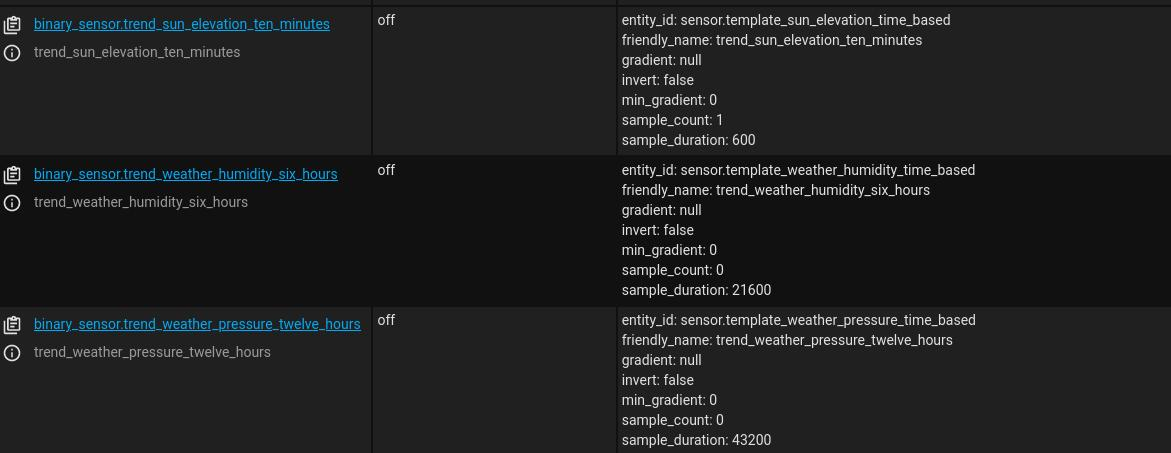
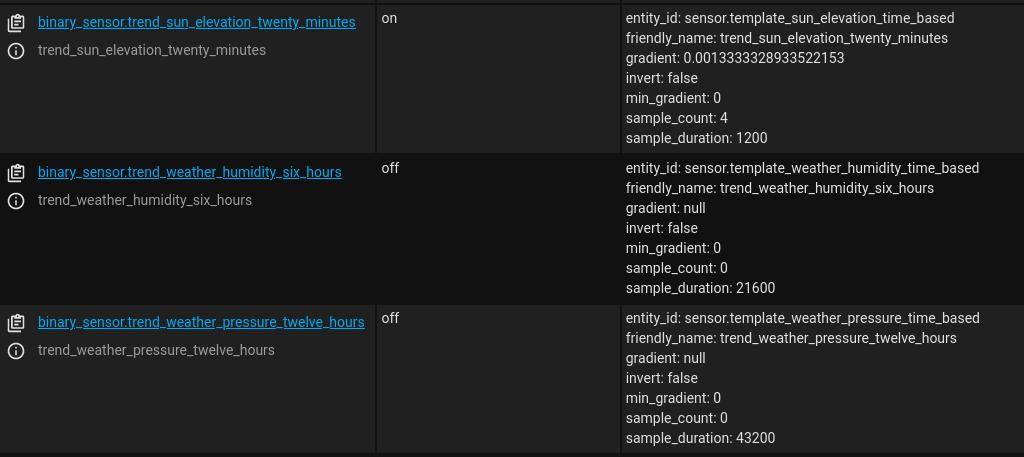
finished Trend section; moving onto the simplification of the article (moving stat inference to development)

diff --git a/_site/blog/smarter-hass/index.html b/_site/blog/smarter-hass/index.html
@@ -1036,7 +1036,7 @@
   <li><code class="language-plaintext highlighter-rouge">trend weather temperature six hours</code>: Gradient of the <code class="language-plaintext highlighter-rouge">sensor.template_weather_temperature_time_based</code> template sensor over the <em>last six hours</em>;</li>
   <li><code class="language-plaintext highlighter-rouge">trend weather humidity six hours</code>: Gradient of the <code class="language-plaintext highlighter-rouge">sensor.template_weather_humidity_time_based</code> template sensor over the <em>last six hours</em>;</li>
   <li><code class="language-plaintext highlighter-rouge">trend weather pressure twelve hours</code>: Gradient of the <code class="language-plaintext highlighter-rouge">sensor.template_weather_pressure_time_based</code> template sensor over the <em>last twelve hours</em>;</li>
-  <li><code class="language-plaintext highlighter-rouge">trend sun elevation ten minutes</code>: Gradient of the <code class="language-plaintext highlighter-rouge">sensor.template_sun_elevation_time_based</code> template sensor over the <em>last ten minutes</em>;</li>
+  <li><code class="language-plaintext highlighter-rouge">trend sun elevation twenty minutes</code>: Gradient of the <code class="language-plaintext highlighter-rouge">sensor.template_sun_elevation_time_based</code> template sensor over the <em>last twenty minutes</em>;</li>
 </ol>
 
 <p>To create those <code class="language-plaintext highlighter-rouge">trend</code> entities, append the following to the <code class="language-plaintext highlighter-rouge">binary_sensors.yaml</code> file:</p>
@@ -1062,31 +1062,33 @@
       <span class="na">max_samples</span><span class="pi">:</span> <span class="m">12</span>
       <span class="c1"># 12 hours in seconds</span>
       <span class="na">sample_duration</span><span class="pi">:</span> <span class="m">43200</span>
-    <span class="na">trend_sun_elevation_ten_minutes</span><span class="pi">:</span>
+    <span class="na">trend_sun_elevation_twenty_minutes</span><span class="pi">:</span>
       <span class="na">entity_id</span><span class="pi">:</span> <span class="s">sensor.template_sun_elevation_time_based</span>
       <span class="c1"># resolution is 1 every 5 minutes</span>
-      <span class="na">max_samples</span><span class="pi">:</span> <span class="m">2</span>
-      <span class="c1"># 10 minutes in seconds</span>
-      <span class="na">sample_duration</span><span class="pi">:</span> <span class="m">600</span>
+      <span class="na">max_samples</span><span class="pi">:</span> <span class="m">4</span>
+      <span class="c1"># 20 minutes in seconds</span>
+      <span class="na">sample_duration</span><span class="pi">:</span> <span class="m">1200</span>
 </code></pre></div></div>
 
 <p><strong>Check your configuration file</strong> and if everything looks good, <strong>restart HASS</strong>. Afterwards, check your log file for related errors and if it all looks good, then head to <strong>Developer Tools</strong> &gt; States and you should now see the new trend entities we just created:</p>
 
 <p><a href="/assets/posts/2021-06-04-smarter-hass/hass-utility-trend-01.jpg"><img src="/assets/posts/2021-06-04-smarter-hass/hass-utility-trend-01.jpg" alt="HASS utility trend 01" class="PostImage PostImage--large" /></a></p>
 
-<p>Two noteworthy observations need to be made at this point.  First, notice that this integration does not analyze the data from previously stored entity data but actually stores its own data.  Therefore, it’s necessary to keep it running to collect data from all monitored entities before drawing anything meaningful conclusions from it.  Second, the slope of the linear function that was fit over the data points (<code class="language-plaintext highlighter-rouge">gradient</code>) is reported as an <strong>attribute</strong> and because it uses <em>seconds</em> as time unit, the coefficient refers to the ratio of change over <em>per second</em>.  To make it easier working with <code class="language-plaintext highlighter-rouge">gradient</code>, I usually create a slave entity to output the gradient as its state instead. This is accomplished with <strong>template sensors</strong>.  More specifically, let’s append the following <em>Trend helper entities</em> under our default <strong>Sensor Templates</strong> in the <code class="language-plaintext highlighter-rouge">templates.yaml</code> file:</p>
+<p><a href="/assets/posts/2021-06-04-smarter-hass/hass-utility-trend-02.jpg"><img src="/assets/posts/2021-06-04-smarter-hass/hass-utility-trend-02.jpg" alt="HASS utility trend 02" class="PostImage" /></a></p>
+
+<p>Two noteworthy observations need to be made at this point.  First, notice that this integration does not analyze the data from previously stored entity data but actually stores its own data.  Therefore, it’s necessary to keep it running to collect data from all monitored entities before drawing any meaningful conclusions from it.  Second, the slope of the linear function that was fit over the data points (<code class="language-plaintext highlighter-rouge">gradient</code>) is reported as an <strong>attribute</strong> and because it uses <em>seconds</em> as time unit, the coefficient refers to the ratio of change <em>per second</em>.  Therefore, to make it easier working with <code class="language-plaintext highlighter-rouge">gradient</code>, I usually create a slave entity to output the gradient as its state instead. This is accomplished with <strong>template sensors</strong>.  More specifically, let’s append the following <em>Trend helper entities</em> under our default (state-based) <strong>Sensor Templates</strong> in the <code class="language-plaintext highlighter-rouge">templates.yaml</code> file:</p>
 
 <div class="language-yaml highlighter-rouge"><div class="highlight"><pre class="highlight"><code>    <span class="c1"># Trend helper entities</span>
-    <span class="pi">-</span> <span class="na">name</span><span class="pi">:</span> <span class="s2">"</span><span class="s">template</span><span class="nv"> </span><span class="s">trend</span><span class="nv"> </span><span class="s">sun</span><span class="nv"> </span><span class="s">elevation</span><span class="nv"> </span><span class="s">ten</span><span class="nv"> </span><span class="s">minutes"</span>
+    <span class="pi">-</span> <span class="na">name</span><span class="pi">:</span> <span class="s2">"</span><span class="s">template</span><span class="nv"> </span><span class="s">trend</span><span class="nv"> </span><span class="s">sun</span><span class="nv"> </span><span class="s">elevation</span><span class="nv"> </span><span class="s">twenty</span><span class="nv"> </span><span class="s">minutes"</span>
       <span class="na">unit_of_measurement</span><span class="pi">:</span> <span class="s2">"</span><span class="s">°/h"</span>
       <span class="c1"># if statement makes sure the gradient is valid</span>
       <span class="c1"># change the scale from sec to hour</span>
       <span class="na">state</span><span class="pi">:</span> <span class="pi">&gt;</span>
-        <span class="s">{% if state_attr('binary_sensor.trend_sun_elevation_ten_minutes', 'gradient') is number %}</span>
-           <span class="s">{{ (state_attr('binary_sensor.trend_sun_elevation_ten_minutes', 'gradient') * 3600) | round(1) }}</span>
+        <span class="s">{% if state_attr('binary_sensor.trend_sun_elevation_twenty_minutes', 'gradient') is number %}</span>
+           <span class="s">{{ (state_attr('binary_sensor.trend_sun_elevation_twenty_minutes', 'gradient') * 3600) | round(1) }}</span>
         <span class="s">{% endif %}</span>
     <span class="pi">-</span> <span class="na">name</span><span class="pi">:</span> <span class="s2">"</span><span class="s">template</span><span class="nv"> </span><span class="s">trend</span><span class="nv"> </span><span class="s">weather</span><span class="nv"> </span><span class="s">temperature</span><span class="nv"> </span><span class="s">six</span><span class="nv"> </span><span class="s">hours"</span>
-      <span class="na">unit_of_measurement</span><span class="pi">:</span> <span class="s2">"</span><span class="s">°/h"</span>
+      <span class="na">unit_of_measurement</span><span class="pi">:</span> <span class="s2">"</span><span class="s">C/h"</span>
       <span class="na">state</span><span class="pi">:</span> <span class="pi">&gt;</span>
         <span class="s">{% if state_attr('binary_sensor.trend_weather_temperature_six_hours', 'gradient') is number %}</span>
            <span class="s">{{ (state_attr('binary_sensor.trend_weather_temperature_six_hours', 'gradient') * 3600) | round(2) }}</span>
@@ -1105,7 +1107,11 @@
         <span class="s">{% endif %}</span>
 </code></pre></div></div>
 
-<p><strong>Reload your configuration</strong> and afterwards, HASS will create new <code class="language-plaintext highlighter-rouge">sensor.template_trend_*</code> entities that should contain the converted gradient as their state.</p>
+<p>The <code class="language-plaintext highlighter-rouge">if</code> statement is used to validate (<code class="language-plaintext highlighter-rouge">is number</code>) the appropriate variables in the unit conversion and rounding operations.  Otherwise, the template sensor might attempt to perform a mathematical operation on something other than a number, such as when the <code class="language-plaintext highlighter-rouge">gradient</code> attribute is not yet defined, which would result in an error.</p>
+
+<p>Now <strong>reload your configuration</strong> and afterwards, HASS will create new <code class="language-plaintext highlighter-rouge">sensor.template_trend_*</code> entities that should contain the converted gradient as their state.</p>
+
+<p><a href="/assets/posts/2021-06-04-smarter-hass/hass-utility-trend-03.jpg"><img src="/assets/posts/2021-06-04-smarter-hass/hass-utility-trend-03.jpg" alt="HASS utility trend 03" class="PostImage" /></a></p>
 
 <h4 id="additional-references-2">Additional references</h4>
 <ul>

diff --git a/_posts/2021-06-04-smarter-hass.md b/_posts/2021-06-04-smarter-hass.md
@@ -586,7 +586,7 @@ Then using a text editor, create a `binary_sensors.yaml` file where we will conf
 1. `trend weather temperature six hours`: Gradient of the `sensor.template_weather_temperature_time_based` template sensor over the *last six hours*;
 2. `trend weather humidity six hours`: Gradient of the `sensor.template_weather_humidity_time_based` template sensor over the *last six hours*;
 3. `trend weather pressure twelve hours`: Gradient of the `sensor.template_weather_pressure_time_based` template sensor over the *last twelve hours*;
-4. `trend sun elevation ten minutes`: Gradient of the `sensor.template_sun_elevation_time_based` template sensor over the *last ten minutes*;
+4. `trend sun elevation twenty minutes`: Gradient of the `sensor.template_sun_elevation_time_based` template sensor over the *last twenty minutes*;
 
 To create those `trend` entities, append the following to the `binary_sensors.yaml` file:
 
@@ -613,12 +613,12 @@ To create those `trend` entities, append the following to the `binary_sensors.ya
       max_samples: 12
       # 12 hours in seconds
       sample_duration: 43200
-    trend_sun_elevation_ten_minutes:
+    trend_sun_elevation_twenty_minutes:
       entity_id: sensor.template_sun_elevation_time_based
       # resolution is 1 every 5 minutes
-      max_samples: 2
-      # 10 minutes in seconds
-      sample_duration: 600
+      max_samples: 4
+      # 20 minutes in seconds
+      sample_duration: 1200
 ```
 {% endraw %}
 
@@ -626,21 +626,23 @@ To create those `trend` entities, append the following to the `binary_sensors.ya
 
 [![HASS utility trend 01](/assets/posts/2021-06-04-smarter-hass/hass-utility-trend-01.jpg){:.PostImage .PostImage--large}](/assets/posts/2021-06-04-smarter-hass/hass-utility-trend-01.jpg)
 
-Two noteworthy observations need to be made at this point.  First, notice that this integration does not analyze the data from previously stored entity data but actually stores its own data.  Therefore, it's necessary to keep it running to collect data from all monitored entities before drawing anything meaningful conclusions from it.  Second, the slope of the linear function that was fit over the data points (`gradient`) is reported as an **attribute** and because it uses *seconds* as time unit, the coefficient refers to the ratio of change over *per second*.  To make it easier working with `gradient`, I usually create a slave entity to output the gradient as its state instead. This is accomplished with **template sensors**.  More specifically, let's append the following *Trend helper entities* under our default **Sensor Templates** in the `templates.yaml` file:
+[![HASS utility trend 02](/assets/posts/2021-06-04-smarter-hass/hass-utility-trend-02.jpg){:.PostImage}](/assets/posts/2021-06-04-smarter-hass/hass-utility-trend-02.jpg)
+
+Two noteworthy observations need to be made at this point.  First, notice that this integration does not analyze the data from previously stored entity data but actually stores its own data.  Therefore, it's necessary to keep it running to collect data from all monitored entities before drawing any meaningful conclusions from it.  Second, the slope of the linear function that was fit over the data points (`gradient`) is reported as an **attribute** and because it uses *seconds* as time unit, the coefficient refers to the ratio of change *per second*.  Therefore, to make it easier working with `gradient`, I usually create a slave entity to output the gradient as its state instead. This is accomplished with **template sensors**.  More specifically, let's append the following *Trend helper entities* under our default (state-based) **Sensor Templates** in the `templates.yaml` file:
 
 {% raw %}
 ```yaml
     # Trend helper entities
-    - name: "template trend sun elevation ten minutes"
+    - name: "template trend sun elevation twenty minutes"
       unit_of_measurement: "°/h"
       # if statement makes sure the gradient is valid
       # change the scale from sec to hour
       state: >
-        {% if state_attr('binary_sensor.trend_sun_elevation_ten_minutes', 'gradient') is number %}
-           {{ (state_attr('binary_sensor.trend_sun_elevation_ten_minutes', 'gradient') * 3600) | round(1) }}
+        {% if state_attr('binary_sensor.trend_sun_elevation_twenty_minutes', 'gradient') is number %}
+           {{ (state_attr('binary_sensor.trend_sun_elevation_twenty_minutes', 'gradient') * 3600) | round(1) }}
         {% endif %}
     - name: "template trend weather temperature six hours"
-      unit_of_measurement: "°/h"
+      unit_of_measurement: "C/h"
       state: >
         {% if state_attr('binary_sensor.trend_weather_temperature_six_hours', 'gradient') is number %}
            {{ (state_attr('binary_sensor.trend_weather_temperature_six_hours', 'gradient') * 3600) | round(2) }}
@@ -660,7 +662,11 @@ Two noteworthy observations need to be made at this point.  First, notice that t
 ```
 {% endraw %}
 
-**Reload your configuration** and afterwards, HASS will create new `sensor.template_trend_*` entities that should contain the converted gradient as their state.
+The `if` statement is used to validate (`is number`) the appropriate variables in the unit conversion and rounding operations.  Otherwise, the template sensor might attempt to perform a mathematical operation on something other than a number, such as when the `gradient` attribute is not yet defined, which would result in an error.
+
+Now **reload your configuration** and afterwards, HASS will create new `sensor.template_trend_*` entities that should contain the converted gradient as their state.
+
+[![HASS utility trend 03](/assets/posts/2021-06-04-smarter-hass/hass-utility-trend-03.jpg){:.PostImage}](/assets/posts/2021-06-04-smarter-hass/hass-utility-trend-03.jpg)
 
 #### Additional references
 - Trend **documentation**: [https://www.home-assistant.io/integrations/trend/](https://www.home-assistant.io/integrations/trend/)
